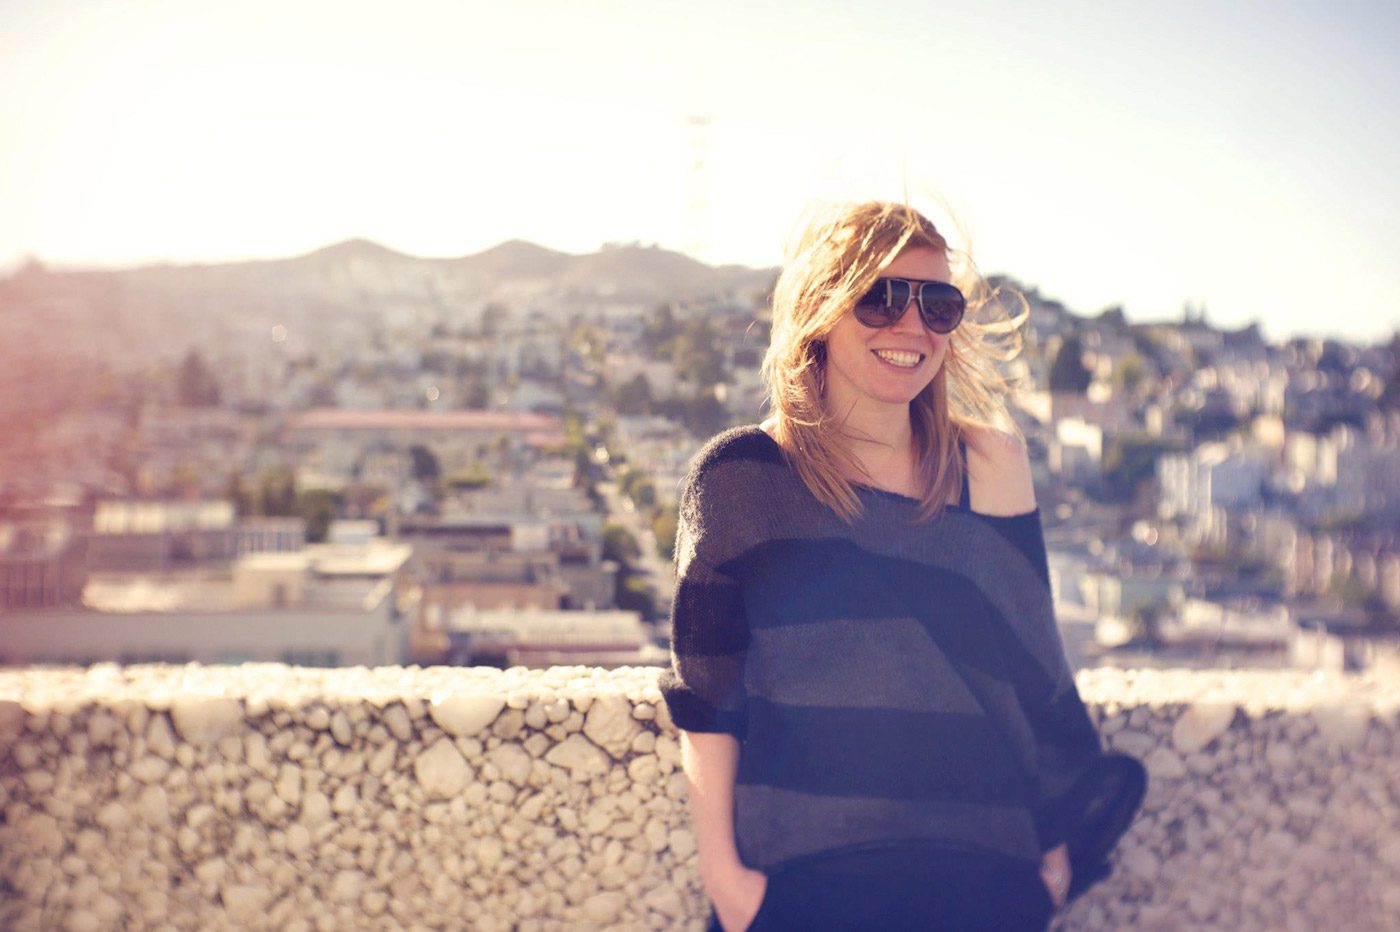
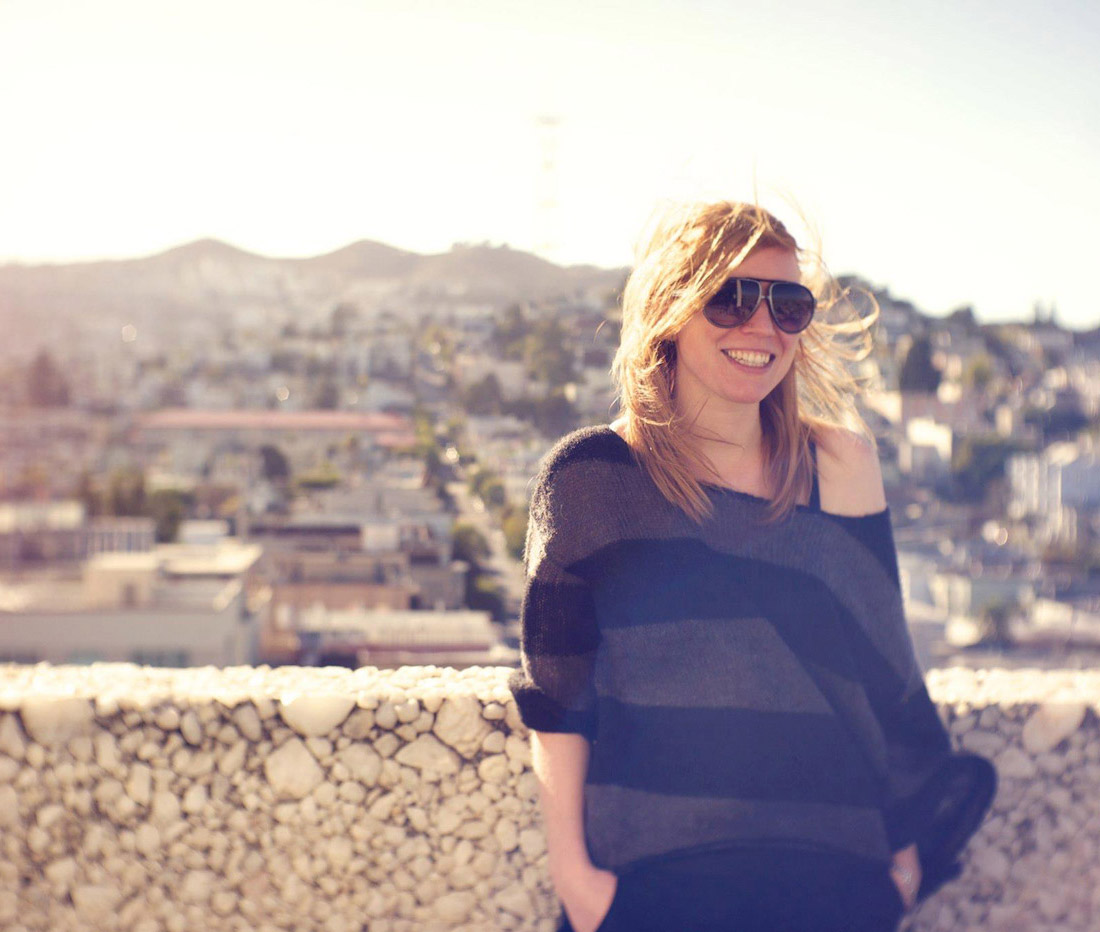
fixed responsiveness

diff --git a/stylesheets/stylesheet.css b/stylesheets/stylesheet.css
@@ -78,8 +78,7 @@ header {
   background-position: 50% 30%;
   height: 380px;
   min-height: 380px;
-  width: 1100px;
-  margin: 0 auto;
+  width: 100%;
 }
 
 header h1 {
